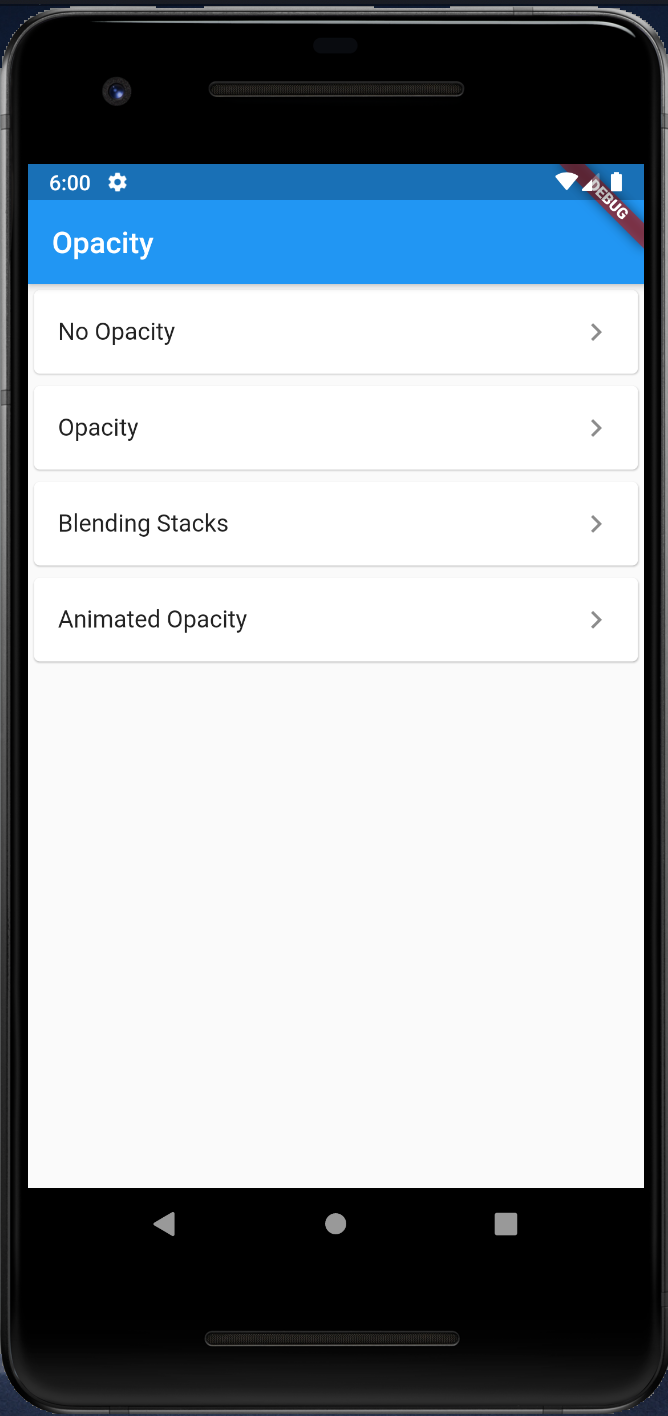
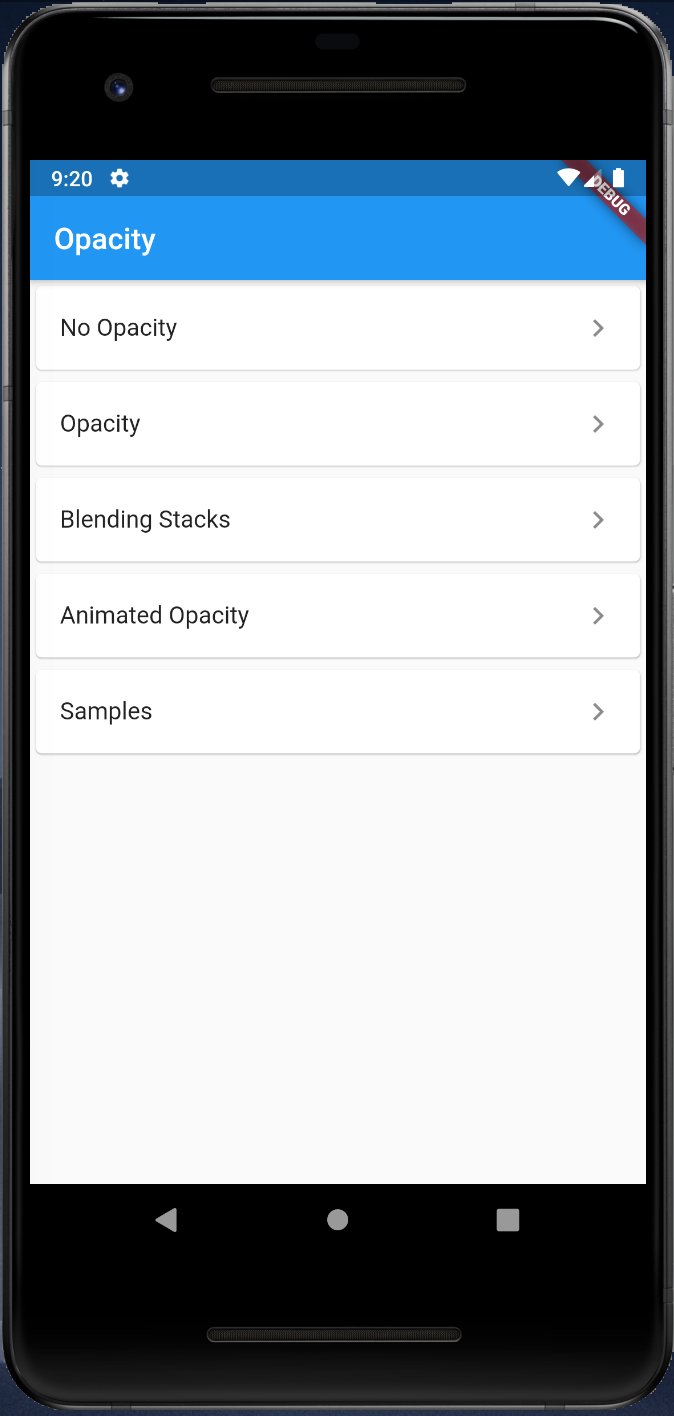
[Opacity] Add SamplesPage

diff --git a/opacity/lib/main.dart b/opacity/lib/main.dart
@@ -13,6 +13,7 @@ class MyApp extends StatelessWidget {
         '/opaticy': (BuildContext context) => OpacityPage(),
         '/blending': (BuildContext context) => BlendingStacksPage(),
         '/animatedopacity': (BuildContext context) => AnimatedOpacityPage(),
+        '/samples': (BuildContext context) => SamplesPage(),
       },
     );
   }
@@ -32,6 +33,7 @@ class MyHomePage extends StatelessWidget {
             _buildList(context, 'Opacity', '/opaticy'),
             _buildList(context, 'Blending Stacks', '/blending'),
             _buildList(context, 'Animated Opacity', '/animatedopacity'),
+            _buildList(context, 'Samples', '/samples'),
           ],
         ),
       ),
@@ -219,5 +221,51 @@ class _AnimatedOpacityPageState extends State<AnimatedOpacityPage> {
         ),
       ),
     );
+  }
+}
+
+class SamplesPage extends StatefulWidget {
+  @override
+  _SamplesPageState createState() => _SamplesPageState();
+}
+
+class _SamplesPageState extends State<SamplesPage> {
+  var _visible = false;
+
+  @override
+  Widget build(BuildContext context) {
+    return Scaffold(
+      appBar: AppBar(
+        title: Text('Samples'),
+      ),
+      body: Column(
+        children: <Widget>[
+          _buildSample1(_visible),
+          _buildSample2(),
+        ],
+      ),
+      floatingActionButton: FloatingActionButton(
+        onPressed: () {
+          setState(() {
+            _visible = !_visible;
+          });
+        },
+        child: Icon(Icons.sync),
+      ),
+    );
+  }
+
+  Widget _buildSample1(bool _visible) {
+    return Opacity(
+      opacity: _visible ? 1.0 : 0.0,
+      child: const Text('Now you see me, now you don\'t!'),
+    );
+  }
+
+  Widget _buildSample2() {
+    return Image.network(
+        'https://raw.githubusercontent.com/flutter/assets-for-api-docs/master/packages/diagrams/assets/blend_mode_destination.jpeg',
+        color: Color.fromRGBO(255, 255, 255, 0.5),
+        colorBlendMode: BlendMode.modulate);
   }
 }

diff --git a/opacity/README.md b/opacity/README.md
@@ -15,6 +15,6 @@ Menu
 |-|-|
 |<img src="./screenshots/NoOpacity.png" height="400" alt="Screenshot"/>|<img src="./screenshots/Opacity.png" height="400" alt="Screenshot"/>|
 
-|Blending Stacks|AnimatedOpacity|
-|-|-|
-|<img src="./screenshots/BlendingStacks.png" height="400" alt="Screenshot"/>|<img src="./screenshots/movie/AnimatedOpacity.gif" height="400" alt="Screenshot"/>|
+|Blending Stacks|AnimatedOpacity|Samples|
+|-|-|-|
+|<img src="./screenshots/BlendingStacks.png" height="400" alt="Screenshot"/>|<img src="./screenshots/movie/AnimatedOpacity.gif" height="400" alt="Screenshot"/>|<img src="./screenshots/movie/Samples.gif" height="400" alt="Screenshot"/>|
